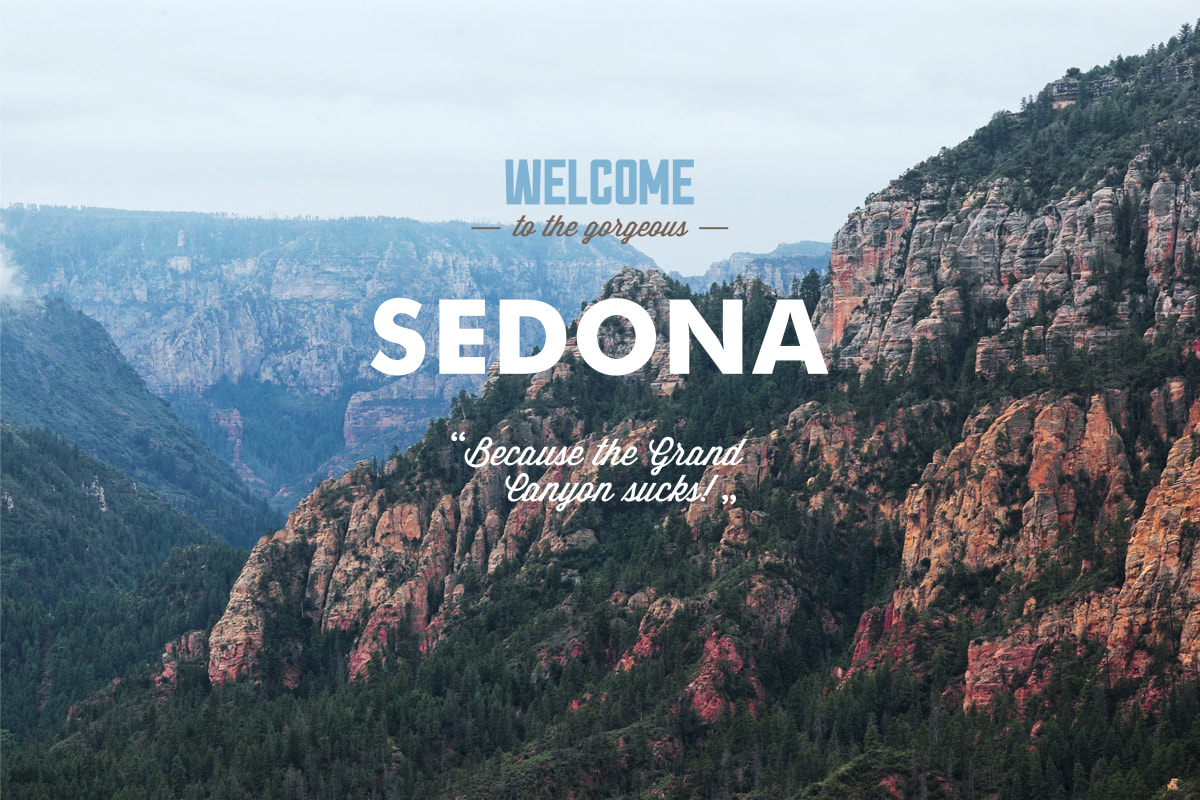
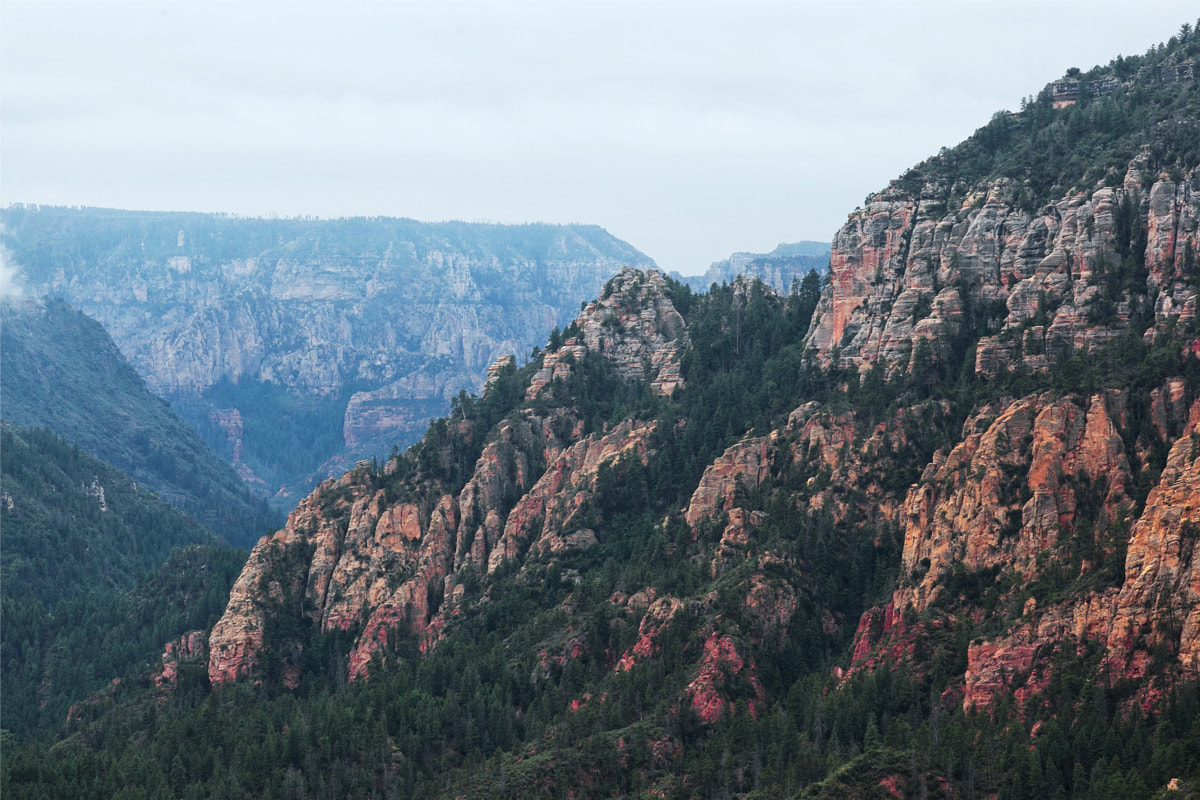
Исправление и дополнение к первому заданию по графике

Changed region(s): [[0.3083, 0.375, 0.7092, 0.4688], [0.4008, 0.1875, 0.5858, 0.3125], [0.37, 0.5312, 0.6167, 0.6562]]

diff --git a/catalog.html b/catalog.html
@@ -7,7 +7,7 @@
   <body>
 		<header>
 			<a href="index.html">
-				<img src="img/logo.svg" width="140" height="72" src="" alt="Логотип сервиса поиска жилья в Седоне">
+				<img src="img/logo-sedona.svg" width="140" height="72" src="" alt="Логотип сервиса поиска жилья в Седоне">
 			</a>
 			<nav>
 				<ul>
@@ -61,8 +61,15 @@
 						</div>
 						<img src="img/hotel-1.jpg" width="135" height="90" alt="Фото Amara Resort & Spa">
 						<div>
-							<span><!-- Звездочки --></span>
-							<b>Рейтинг: 8,5</b>
+							<p>
+								<img src="img/star.svg" width="18" height="17" alt="Звезда (для классификация места проживания по количеству звезд)">
+								<img src="img/star.svg" width="18" height="17" alt="Звезда (для классификация места проживания по количеству звезд)">
+								<img src="img/star.svg" width="18" height="17" alt="Звезда (для классификация места проживания по количеству звезд)">
+								<img src="img/star.svg" width="18" height="17" alt="Звезда (для классификация места проживания по количеству звезд)">
+							</p>
+							<p>
+								<b>Рейтинг: 8,5</b>
+							</p>
 						</div>
 					</li>
 					<li>
@@ -81,8 +88,14 @@
 							<img src="img/hotel-2.jpg" width="135" height="90" alt="Фото Desert Quail Inn">
 						</div>
 						<div>
-							<span><!-- Звездочки --></span>
-							<b>Рейтинг: 8,9</b>
+							<p>
+								<img src="img/star.svg" width="18" height="17" alt="Звезда (для классификация места проживания по количеству звезд)">
+								<img src="img/star.svg" width="18" height="17" alt="Звезда (для классификация места проживания по количеству звезд)">
+								<img src="img/star.svg" width="18" height="17" alt="Звезда (для классификация места проживания по количеству звезд)">
+							</p>
+							<p>
+								<b>Рейтинг: 8,9</b>
+							</p>
 						</div>
 					</li>
 					<li>
@@ -101,8 +114,13 @@
 							<img src="img/hotel-3.jpg" width="135" height="90" alt="Фото Villas at Poco Diablo">
 						</div>
 						<div>
-							<span><!-- Звездочки --></span>
-							<b>Рейтинг: 9,2</b>
+							<p>
+								<img src="img/star.svg" width="18" height="17" alt="Звезда (для классификация места проживания по количеству звезд)">
+								<img src="img/star.svg" width="18" height="17" alt="Звезда (для классификация места проживания по количеству звезд)">
+							</p>
+							<p>
+								<b>Рейтинг: 9,2</b>
+							</p>
 						</div>
 					</li>
 				</ul>
@@ -113,14 +131,32 @@
 				<b>#VISITSEDONA</b>
 			</p>
 			<ul>
-				<li><a href=""></a></li>
-				<li><a href=""></a></li>
-				<li><a href=""></a></li>
+				<li>
+					<a href="">
+						<div>
+							<svg xmlns="http://www.w3.org/2000/svg" xmlns:xlink="http://www.w3.org/1999/xlink" width="17" height="15" viewBox="0 0 17 15"><path fill="#FFF" d="M10.95.144c1.685-.496 2.984.27 3.577 1.179.673-.231 1.331-.481 2.011-.708a2.345 2.345 0 0 1-.857 1.768c.685.17 1.304-.491 1.304-.491-.169 1-1.006 1.788-1.563 2.024-.231 6.75-3.175 11.217-10.077 11.082h-.446c-.41 0-4.164-.46-4.898-1.887 2.271.196 3.893-.422 4.693-1.177-.96-.3-2.679-.477-2.979-2.95.349.106.564.228 1.19.119C1.705 8.247.374 7.53.448 5.33c.285.328 1.067.536 1.34.472C1.085 5.561-.182 2.442.894.85c1.818 1.854 3.735 3.606 7.152 3.773C8.254 2.33 9.183.793 10.95.144z"/></svg>
+						</div>
+					</a>
+				</li>
+				<li>
+					<a href="">
+						<div>
+							<svg xmlns="http://www.w3.org/2000/svg" width="12" height="22" viewBox="0 0 12 22"><path fill="#FFF" d="M12 4V0H8a4 4 0 0 0-4 4v4H0v4h4v10h4V12h4V8H8V4h4z"/></svg>
+						</div>
+					</a>
+				</li>
+				<li>
+					<a href="">
+						<div>
+							<svg xmlns="http://www.w3.org/2000/svg" xmlns:xlink="http://www.w3.org/1999/xlink" width="20" height="16" viewBox="0 0 20 16"><path fill="#FFF" d="M17 0H3C1.35 0 0 1.35 0 3v10c0 1.65 1.35 3 3 3h14c1.65 0 3-1.35 3-3V3c0-1.65-1.35-3-3-3zM6.027 11.998V4.002L15.014 8l-8.987 3.998z"/></svg>
+						</div>
+					</a>
+				</li>
 			</ul>
 			<p>
 				Website by
 				<a href="https://htmlacademy.ru/intensive/htmlcss">
-					<img src="" alt="Логотип HTML Academy">
+					<svg xmlns="http://www.w3.org/2000/svg" width="115" height="41" viewBox="0 0 115 41"><title>logo-htmlacademy-small1</title><path d="M44.61,26.88a2,2,0,0,0,.55-0.1v1.33a3.25,3.25,0,0,1-1.18.21,1.67,1.67,0,0,1-1.67-1,4.84,4.84,0,0,1-3.14,1.08c-1.51,0-2.91-.83-2.91-2.55,0-2.13,2-2.79,3.71-2.79a11.08,11.08,0,0,1,2.17.25v-0.3c0-1-.76-1.77-2.19-1.77a7.42,7.42,0,0,0-3,.64v-1.7a10.21,10.21,0,0,1,3.19-.55c2.36,0,3.81,1.12,3.81,3.65v3a0.54,0.54,0,0,0,.49.59h0.17Zm-6.44-1.13A1.35,1.35,0,0,0,39.63,27h0.11a3.39,3.39,0,0,0,2.41-1V24.58a9.72,9.72,0,0,0-1.81-.21c-1,0-2.16.33-2.16,1.38h0Zm12.36-6.11a5,5,0,0,1,2.57.64V22a4.08,4.08,0,0,0-2.3-.7,2.75,2.75,0,1,0,0,5.49,5,5,0,0,0,2.43-.64v1.71a6.27,6.27,0,0,1-2.76.57A4.21,4.21,0,0,1,46,24.51q0-.21,0-0.41a4.32,4.32,0,0,1,4.18-4.46h0.38Zm12.17,7.24a2,2,0,0,0,.55-0.1v1.33a3.25,3.25,0,0,1-1.18.21,1.67,1.67,0,0,1-1.67-1,4.84,4.84,0,0,1-3.14,1.08c-1.51,0-2.91-.83-2.91-2.55,0-2.13,2-2.79,3.71-2.79a11.08,11.08,0,0,1,2.17.25v-0.3c0-1-.76-1.77-2.19-1.77a7.42,7.42,0,0,0-3,.64v-1.7a10.21,10.21,0,0,1,3.19-.55c2.36,0,3.81,1.12,3.81,3.65v3a0.54,0.54,0,0,0,.49.59h0.17Zm-6.44-1.13A1.35,1.35,0,0,0,57.73,27h0.11a3.39,3.39,0,0,0,2.41-1V24.58a9.72,9.72,0,0,0-1.81-.21c-1.06,0-2.16.33-2.16,1.38h0ZM73,16V28.2H71.35V26.88a3.88,3.88,0,0,1-3.19,1.54,4.4,4.4,0,0,1,0-8.78,3.81,3.81,0,0,1,3,1.3V16H73Zm-4.53,5.22a2.76,2.76,0,1,0,0,5.52A2.86,2.86,0,0,0,71.15,25V23A2.91,2.91,0,0,0,68.49,21.27ZM79,19.64c3.31,0,4.46,2.68,3.92,5.09H76.7c0.21,1.5,1.67,2.11,3.19,2.11a6.11,6.11,0,0,0,2.64-.59v1.6a7.14,7.14,0,0,1-3,.57C77,28.42,74.78,27,74.78,24a4.18,4.18,0,0,1,4-4.39H79Zm0.09,1.54a2.28,2.28,0,0,0-2.44,2.1v0.06H81.3A2,2,0,0,0,79.13,21.18Zm5.73,7V19.87h1.65v1a3.81,3.81,0,0,1,2.78-1.27A2.86,2.86,0,0,1,91.89,21a4.12,4.12,0,0,1,2.91-1.33A3.06,3.06,0,0,1,98,23V28.2h-1.9V23.05a1.59,1.59,0,0,0-1.42-1.75H94.42a2.8,2.8,0,0,0-2.07,1.12V28.2h-1.9V23.05A1.59,1.59,0,0,0,89,21.31H88.8a3,3,0,0,0-2.21,1.29v5.63H84.86Zm21.31-8.33h1.9l-3.91,9.46c-0.9,2.17-2.09,2.86-3.35,2.86a4.76,4.76,0,0,1-1.1-.14V30.46a2.86,2.86,0,0,0,.85.12c0.9,0,1.58-.64,2.07-1.9l0.17-.42-4-8.4h2l2.86,6.29ZM38.73,1.46V6.22a3.81,3.81,0,0,1,2.7-1.14,3.25,3.25,0,0,1,3.44,3.4v5.15H43V8.72a1.81,1.81,0,0,0-1.61-2h-0.3a2.93,2.93,0,0,0-2.32,1.39v5.52h-1.9V1.46h1.9ZM49.94,2.31v3h3V6.91h-3v3.81c0,1.1.5,1.46,1.58,1.46a4.49,4.49,0,0,0,1.69-.33v1.6A6.8,6.8,0,0,1,51,13.8a2.55,2.55,0,0,1-2.86-2.74V6.89H46.58V5.26h1.5V2.74Zm5.4,11.31V5.28H57v1A3.81,3.81,0,0,1,59.77,5a2.86,2.86,0,0,1,2.6,1.33A4.12,4.12,0,0,1,65.28,5,3.06,3.06,0,0,1,68.44,8.4v5.21h-1.9V8.46a1.59,1.59,0,0,0-1.42-1.75H64.89a2.8,2.8,0,0,0-2.07,1.12v5.78h-1.9V8.46A1.59,1.59,0,0,0,59.5,6.71H59.27A3,3,0,0,0,57.06,8v5.63H55.34ZM71.17,1.45H73V13.6H71.17V1.45ZM14.71,0H14.55L0,1.54V28.21l14.55,8.66,14.55-8.66V1.54Zm12.5,27.1L14.55,34.64,1.9,27.12V16.18l12.59,7.5V25L5.86,19.9v1.31l8.68,5.21v1.39L5.87,22.65V24l8.68,5.21,8.75-5.24V18.31L27.2,16V27.12Zm0-12.53-3.48,2-1.6,1L14.51,13v1.31L21,18.23H21l-0.14.09-1,.54-5.37-3.2V17l4.24,2.52-1,.67-3.2-1.9v1.31l2.1,1.24L14.5,22.1,2,14.65,14.51,7.11Zm0-1.32L14.49,5.76,1.91,13.25v-10L14.56,1.92,27.21,3.25v10h0Z" transform="translate(0 -0.02)" fill="#231f20"/></svg>
 				</a>
 			</p>
 		</footer>

diff --git a/index.html b/index.html
@@ -7,7 +7,7 @@
   <body>
 		<header>
 			<a>
-				<img src="img/logo.svg" width="140" height="72" alt="Логотип сервиса поиска жилья в Седоне">
+				<img src="img/logo-sedona.svg" width="140" height="72" alt="Логотип сервиса поиска жилья в Седоне">
 			</a>
 			<nav>
 				<ul>
@@ -22,7 +22,7 @@
 			<h1>Сервис поиска жилья в Седоне</h1>
 			<section>
 				<h2>Добро пожаловать в прекрасную Седону</h2>
-				<img src="img/background-photo.jpg" width="1200" height="800" alt="Приветственное изображение">
+				<img src="img/intro-welcome.svg" width="459" height="353" alt="Приветственное изображение">
 			</section>
 			<section>
 				<h2>Преимущества проживания в Седоне</h2>
@@ -144,14 +144,32 @@
 				<b>#VISITSEDONA</b>
 			</p>
 			<ul>
-				<li><a href=""></a></li>
-				<li><a href=""></a></li>
-				<li><a href=""></a></li>
+				<li>
+					<a href="">
+						<div>
+							<svg xmlns="http://www.w3.org/2000/svg" xmlns:xlink="http://www.w3.org/1999/xlink" width="17" height="15" viewBox="0 0 17 15"><path fill="#FFF" d="M10.95.144c1.685-.496 2.984.27 3.577 1.179.673-.231 1.331-.481 2.011-.708a2.345 2.345 0 0 1-.857 1.768c.685.17 1.304-.491 1.304-.491-.169 1-1.006 1.788-1.563 2.024-.231 6.75-3.175 11.217-10.077 11.082h-.446c-.41 0-4.164-.46-4.898-1.887 2.271.196 3.893-.422 4.693-1.177-.96-.3-2.679-.477-2.979-2.95.349.106.564.228 1.19.119C1.705 8.247.374 7.53.448 5.33c.285.328 1.067.536 1.34.472C1.085 5.561-.182 2.442.894.85c1.818 1.854 3.735 3.606 7.152 3.773C8.254 2.33 9.183.793 10.95.144z"/></svg>
+						</div>
+					</a>
+				</li>
+				<li>
+					<a href="">
+						<div>
+							<svg xmlns="http://www.w3.org/2000/svg" width="12" height="22" viewBox="0 0 12 22"><path fill="#FFF" d="M12 4V0H8a4 4 0 0 0-4 4v4H0v4h4v10h4V12h4V8H8V4h4z"/></svg>
+						</div>
+					</a>
+				</li>
+				<li>
+					<a href="">
+						<div>
+							<svg xmlns="http://www.w3.org/2000/svg" xmlns:xlink="http://www.w3.org/1999/xlink" width="20" height="16" viewBox="0 0 20 16"><path fill="#FFF" d="M17 0H3C1.35 0 0 1.35 0 3v10c0 1.65 1.35 3 3 3h14c1.65 0 3-1.35 3-3V3c0-1.65-1.35-3-3-3zM6.027 11.998V4.002L15.014 8l-8.987 3.998z"/></svg>
+						</div>
+					</a>
+				</li>
 			</ul>
 			<p>
 				Website by
 				<a href="https://htmlacademy.ru/intensive/htmlcss">
-					<img src="" alt="Логотип HTML Academy">
+					<svg xmlns="http://www.w3.org/2000/svg" width="115" height="41" viewBox="0 0 115 41"><title>logo-htmlacademy-small1</title><path d="M44.61,26.88a2,2,0,0,0,.55-0.1v1.33a3.25,3.25,0,0,1-1.18.21,1.67,1.67,0,0,1-1.67-1,4.84,4.84,0,0,1-3.14,1.08c-1.51,0-2.91-.83-2.91-2.55,0-2.13,2-2.79,3.71-2.79a11.08,11.08,0,0,1,2.17.25v-0.3c0-1-.76-1.77-2.19-1.77a7.42,7.42,0,0,0-3,.64v-1.7a10.21,10.21,0,0,1,3.19-.55c2.36,0,3.81,1.12,3.81,3.65v3a0.54,0.54,0,0,0,.49.59h0.17Zm-6.44-1.13A1.35,1.35,0,0,0,39.63,27h0.11a3.39,3.39,0,0,0,2.41-1V24.58a9.72,9.72,0,0,0-1.81-.21c-1,0-2.16.33-2.16,1.38h0Zm12.36-6.11a5,5,0,0,1,2.57.64V22a4.08,4.08,0,0,0-2.3-.7,2.75,2.75,0,1,0,0,5.49,5,5,0,0,0,2.43-.64v1.71a6.27,6.27,0,0,1-2.76.57A4.21,4.21,0,0,1,46,24.51q0-.21,0-0.41a4.32,4.32,0,0,1,4.18-4.46h0.38Zm12.17,7.24a2,2,0,0,0,.55-0.1v1.33a3.25,3.25,0,0,1-1.18.21,1.67,1.67,0,0,1-1.67-1,4.84,4.84,0,0,1-3.14,1.08c-1.51,0-2.91-.83-2.91-2.55,0-2.13,2-2.79,3.71-2.79a11.08,11.08,0,0,1,2.17.25v-0.3c0-1-.76-1.77-2.19-1.77a7.42,7.42,0,0,0-3,.64v-1.7a10.21,10.21,0,0,1,3.19-.55c2.36,0,3.81,1.12,3.81,3.65v3a0.54,0.54,0,0,0,.49.59h0.17Zm-6.44-1.13A1.35,1.35,0,0,0,57.73,27h0.11a3.39,3.39,0,0,0,2.41-1V24.58a9.72,9.72,0,0,0-1.81-.21c-1.06,0-2.16.33-2.16,1.38h0ZM73,16V28.2H71.35V26.88a3.88,3.88,0,0,1-3.19,1.54,4.4,4.4,0,0,1,0-8.78,3.81,3.81,0,0,1,3,1.3V16H73Zm-4.53,5.22a2.76,2.76,0,1,0,0,5.52A2.86,2.86,0,0,0,71.15,25V23A2.91,2.91,0,0,0,68.49,21.27ZM79,19.64c3.31,0,4.46,2.68,3.92,5.09H76.7c0.21,1.5,1.67,2.11,3.19,2.11a6.11,6.11,0,0,0,2.64-.59v1.6a7.14,7.14,0,0,1-3,.57C77,28.42,74.78,27,74.78,24a4.18,4.18,0,0,1,4-4.39H79Zm0.09,1.54a2.28,2.28,0,0,0-2.44,2.1v0.06H81.3A2,2,0,0,0,79.13,21.18Zm5.73,7V19.87h1.65v1a3.81,3.81,0,0,1,2.78-1.27A2.86,2.86,0,0,1,91.89,21a4.12,4.12,0,0,1,2.91-1.33A3.06,3.06,0,0,1,98,23V28.2h-1.9V23.05a1.59,1.59,0,0,0-1.42-1.75H94.42a2.8,2.8,0,0,0-2.07,1.12V28.2h-1.9V23.05A1.59,1.59,0,0,0,89,21.31H88.8a3,3,0,0,0-2.21,1.29v5.63H84.86Zm21.31-8.33h1.9l-3.91,9.46c-0.9,2.17-2.09,2.86-3.35,2.86a4.76,4.76,0,0,1-1.1-.14V30.46a2.86,2.86,0,0,0,.85.12c0.9,0,1.58-.64,2.07-1.9l0.17-.42-4-8.4h2l2.86,6.29ZM38.73,1.46V6.22a3.81,3.81,0,0,1,2.7-1.14,3.25,3.25,0,0,1,3.44,3.4v5.15H43V8.72a1.81,1.81,0,0,0-1.61-2h-0.3a2.93,2.93,0,0,0-2.32,1.39v5.52h-1.9V1.46h1.9ZM49.94,2.31v3h3V6.91h-3v3.81c0,1.1.5,1.46,1.58,1.46a4.49,4.49,0,0,0,1.69-.33v1.6A6.8,6.8,0,0,1,51,13.8a2.55,2.55,0,0,1-2.86-2.74V6.89H46.58V5.26h1.5V2.74Zm5.4,11.31V5.28H57v1A3.81,3.81,0,0,1,59.77,5a2.86,2.86,0,0,1,2.6,1.33A4.12,4.12,0,0,1,65.28,5,3.06,3.06,0,0,1,68.44,8.4v5.21h-1.9V8.46a1.59,1.59,0,0,0-1.42-1.75H64.89a2.8,2.8,0,0,0-2.07,1.12v5.78h-1.9V8.46A1.59,1.59,0,0,0,59.5,6.71H59.27A3,3,0,0,0,57.06,8v5.63H55.34ZM71.17,1.45H73V13.6H71.17V1.45ZM14.71,0H14.55L0,1.54V28.21l14.55,8.66,14.55-8.66V1.54Zm12.5,27.1L14.55,34.64,1.9,27.12V16.18l12.59,7.5V25L5.86,19.9v1.31l8.68,5.21v1.39L5.87,22.65V24l8.68,5.21,8.75-5.24V18.31L27.2,16V27.12Zm0-12.53-3.48,2-1.6,1L14.51,13v1.31L21,18.23H21l-0.14.09-1,.54-5.37-3.2V17l4.24,2.52-1,.67-3.2-1.9v1.31l2.1,1.24L14.5,22.1,2,14.65,14.51,7.11Zm0-1.32L14.49,5.76,1.91,13.25v-10L14.56,1.92,27.21,3.25v10h0Z" transform="translate(0 -0.02)" fill="#231f20"/></svg>
 				</a>
 			</p>
 		</footer>
